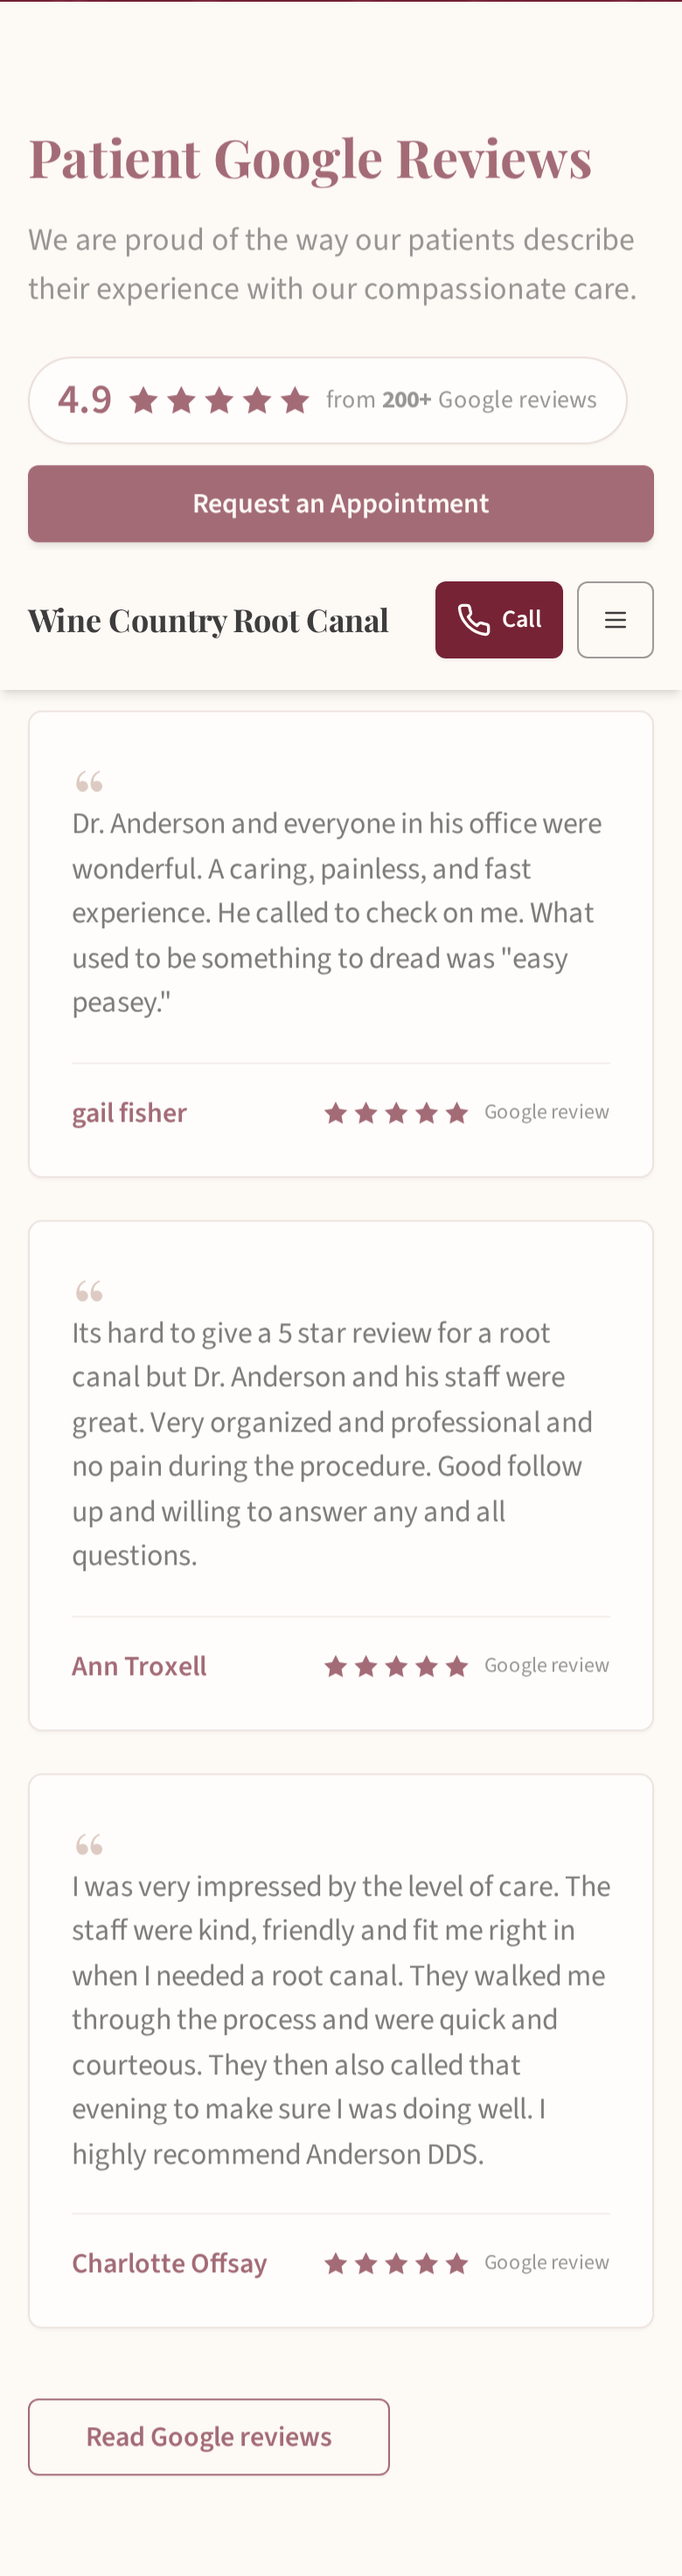
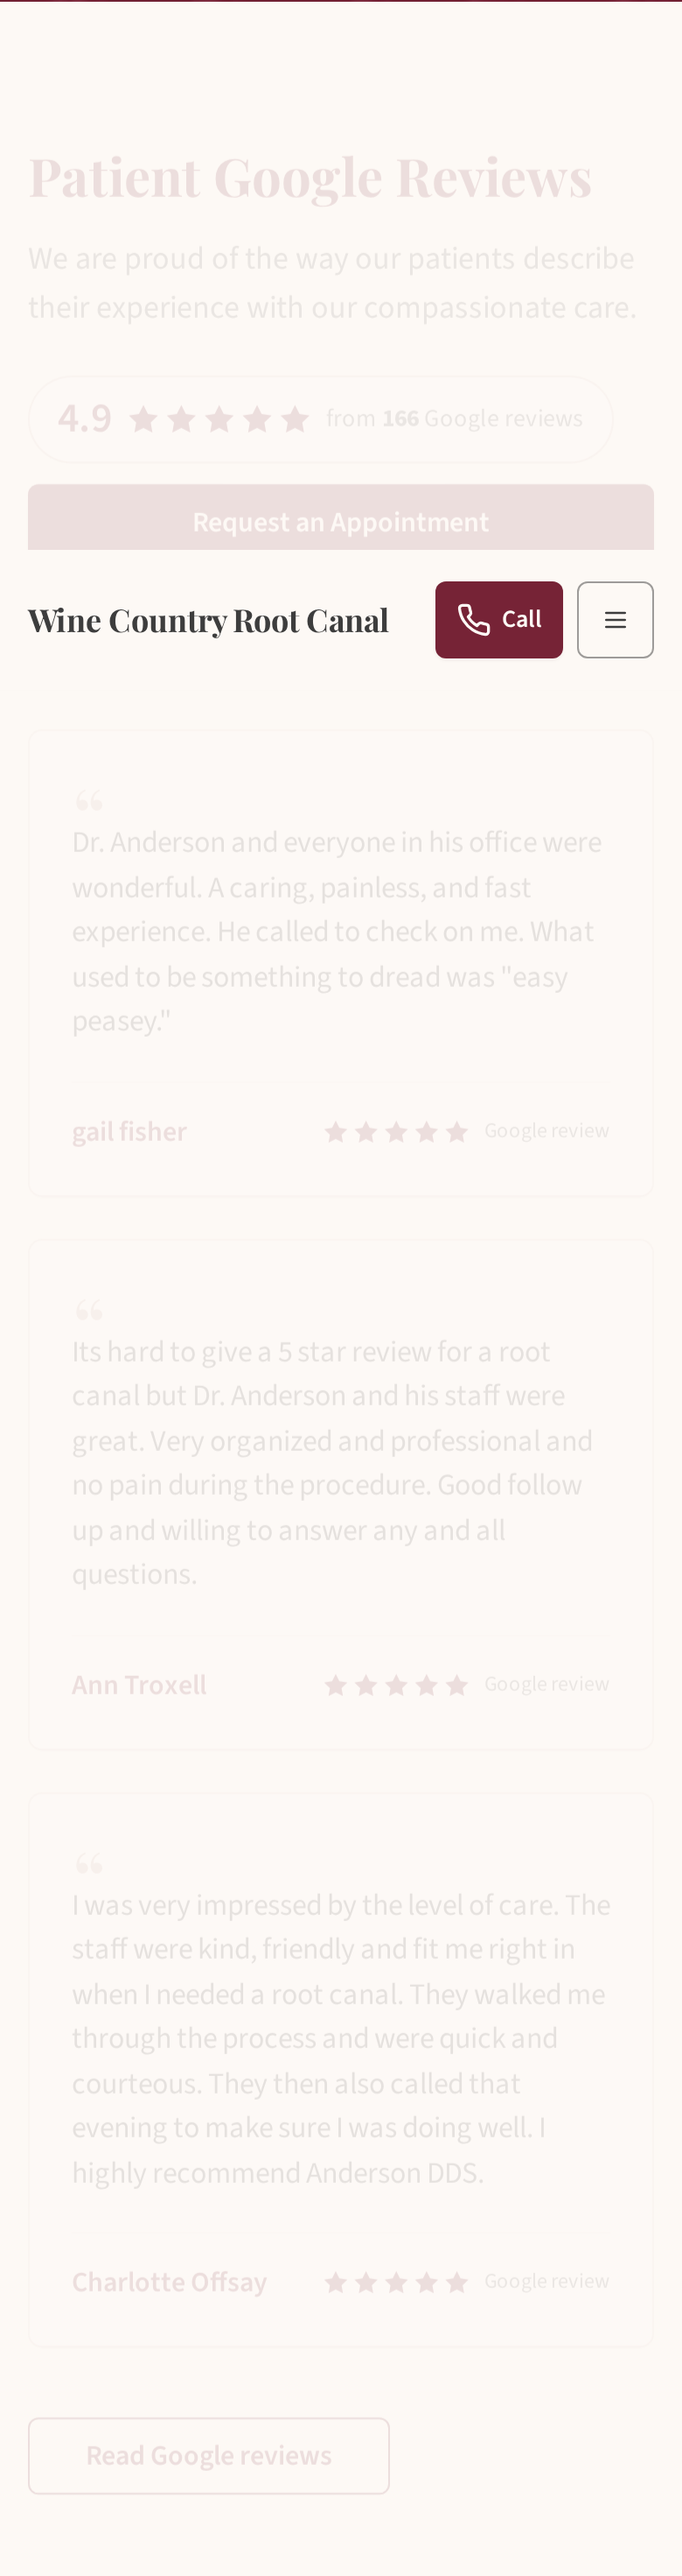
Record late-font CLS vs main after dropping system-ui
Fonts delayed 1.5s at 390 and 1280. Root-canal 390 is 0.0010 vs 0.0014
on main (was 0.201 with system-ui). Home copy screenshots show 166.

diff --git a/docs/font-hardening/README.md b/docs/font-hardening/README.md
@@ -1,27 +1,25 @@
 # Font hardening evidence
 
-Local production build (`next start` on this branch) vs live `www.winecountryrootcanal.com`.
+Late-font protocol: Playwright intercepts every `font` / `.woff2` request and holds it **1.5s**, then records layout-shift (no recent input). Three runs per cell; medians below. Local production builds of this branch (`:3200`) vs `main` @ `792609e` (`:3300`).
 
-## Font requests
+## Late-font CLS (must not regress vs main)
 
-Local home, root-canal, and about at 390 and 1440: **7/7** `.woff2` files returned **200**. **0** font 404s or failed font requests.
+| Page | Viewport | This PR (median) | main (median) |
+| --- | --- | ---: | ---: |
+| `/` | 390 | 0.0013 | 0.0009 |
+| `/` | 1280 | 0.0016 | 0.0028 |
+| `/endodontic-procedures/root-canal-therapy` | 390 | 0.0010 | 0.0014 |
+| `/endodontic-procedures/root-canal-therapy` | 1280 | 0.0024 | 0.0032 |
 
-The seven faces are Playfair 400/700 and Source Sans 3 400 / 400 italic / 500 / 600 / 700.
+Root-canal @ 390 was the Eggbot regression (0.201 on the `system-ui` fallback vs 0.0014 on main). After dropping `system-ui` it is **0.0010**, no worse than main.
 
-## CLS (layout-shift, no recent input)
+Home @ 1280 under this protocol is **0.0016** here and **0.0028** on main. Eggbot’s ~0.128 figure for home @ 1280 was reported on main as well (pre-existing); this run did not reproduce 0.128 when only fonts were delayed.
 
-| Source | Path | 390 | 1440 |
-| --- | --- | --- | --- |
-| Local (this PR) | `/` | 0.000 | 0.000 |
-| Live | `/` | 0.000 | 0.000 |
-| Local | `/endodontic-procedures/root-canal-therapy` | 0.000 | 0.000 |
-| Live | `/endodontic-procedures/root-canal-therapy` | 0.000 | 0.000 |
-| Local | `/about` | 0.000 | 0.000 |
-| Live | `/about` | 0.000 | 0.000 |
+## Fallback stacks
 
-No CLS regression at either viewport.
+- Playfair: `playfair, "playfair Fallback", Georgia, "Times New Roman", serif` with `adjustFontFallback: "Times New Roman"`
+- Source Sans: `sourceSans, "sourceSans Fallback", Arial, sans-serif` with `adjustFontFallback: "Arial"` — **no `system-ui`**
 
 ## Review wording
 
-- Local home: `4.9 from 200+ Google reviews` (hero) and `Google rating from 200+ reviews` (statement). About still uses the imported `166` total.
-- Live home still says `166`.
+Home uses `googleReviewSummary.totalReviews` (**166**). The 204 / 200+ bump stays on PR #10.
